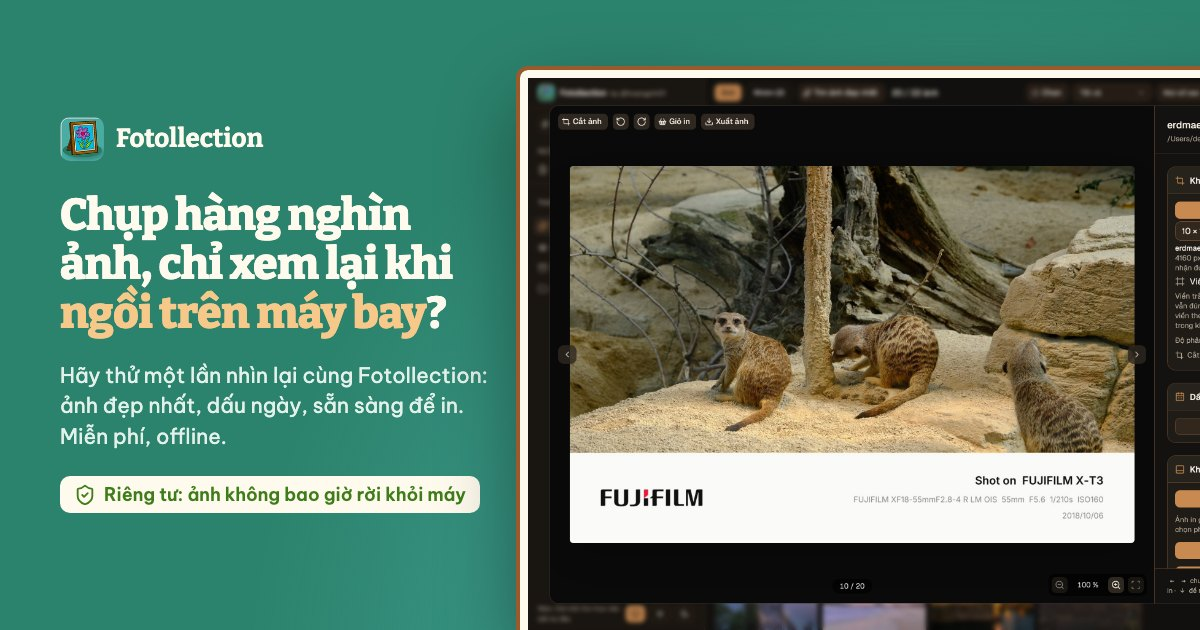
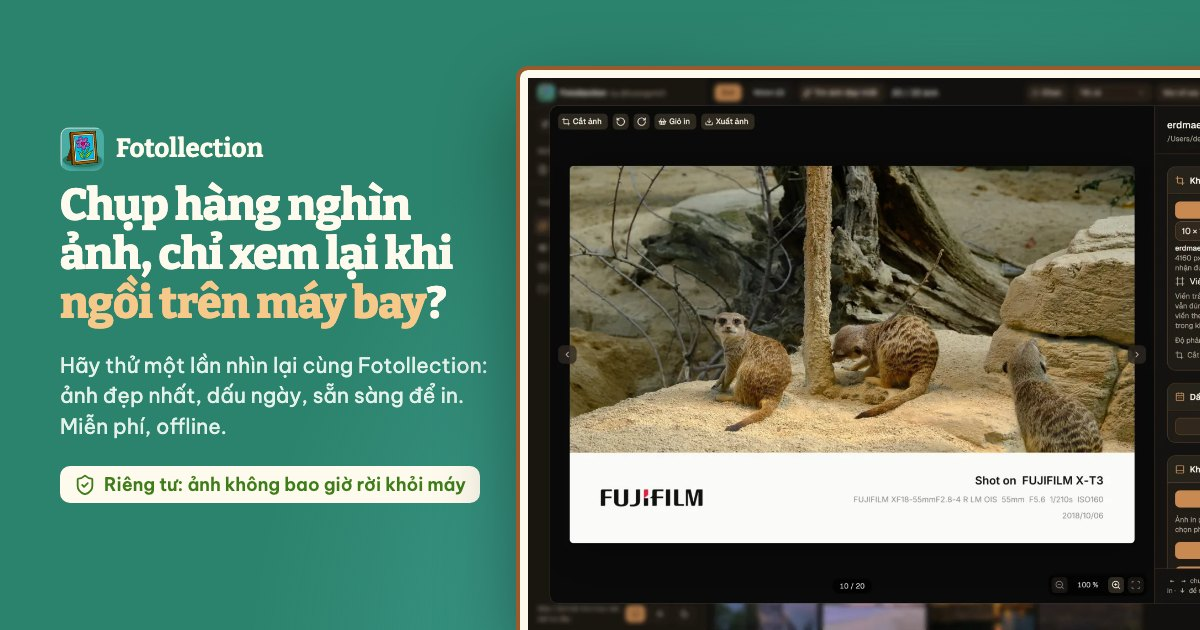
feat(site): every page has its own link preview, title, description and image, in both languages [NFR-007]
og.mjs renders the cards from og.html and the screenshots already on the
site, with no app recording; a page names its card with og: in its front
matter. shoot.mjs no longer renders them.

Changed region(s): [[0.0308, 0.181, 0.4008, 0.5429], [0.0308, 0.573, 0.4008, 0.8143]]

diff --git a/site/screenshots/og.html b/site/screenshots/og.html
@@ -1,6 +1,6 @@
 <!doctype html>
 <!-- SPDX-License-Identifier: GPL-3.0-only -->
-<!-- The link-preview card (Open Graph, 1200 × 630), rendered by shoot.mjs with the site's own fonts. -->
+<!-- The link-preview cards (Open Graph, 1200 × 630), one per page and language, rendered by og.mjs with the site's own fonts. -->
 <html>
   <head>
     <meta charset="utf-8" />
@@ -27,6 +27,8 @@
       .shield { display: inline-flex; align-items: center; gap: 8px; margin-top: 24px; padding: 7px 14px; border-radius: 10px; background: #fffaee; color: #3f7d1a; font-weight: 600; font-size: 18px; }
       .shield svg { width: 22px; height: 22px; }
       .shot { position: relative; height: 100%; }
+      .kicker { margin-top: 30px; font-weight: 600; font-size: 18px; letter-spacing: 0.08em; text-transform: uppercase; color: #f6c98b; }
+      .kicker + h1 { margin-top: 10px; }
       .shot img {
         position: absolute; left: 20px; top: 70px; width: 900px;
         border-radius: 8px; border: 8px solid #fffaee; outline: 4px solid #9a5a2c; box-shadow: 0 30px 80px rgba(0, 0, 0, 0.4);
@@ -36,6 +38,7 @@
   <body>
     <div class="text">
       <div class="brand"><img src="/mark.png" alt="" />Fotollection</div>
+      <p class="kicker" id="kicker" hidden></p>
       <h1 id="title"></h1>
       <p id="sub"></p>
       <div class="shield">
@@ -45,18 +48,51 @@
     </div>
     <div class="shot"><img id="shot" alt="" /></div>
     <script>
-      const lang = new URLSearchParams(location.search).get('lang') === 'vi' ? 'vi' : 'en'
-      const text = {
-        en: [['Thousands of photos, only looked at ', 'on the plane', ' home?'], 'Take one real look back with Fotollection: best shots, date stamp, ready to print. Free and offline.', 'Private: your photos never leave your computer'],
-        vi: [['Chụp hàng nghìn ảnh, chỉ xem lại khi ', 'ngồi trên máy bay', '?'], 'Hãy thử một lần nhìn lại cùng Fotollection: ảnh đẹp nhất, dấu ngày, sẵn sàng để in. Miễn phí, offline.', 'Riêng tư: ảnh không bao giờ rời khỏi máy'],
-      }[lang]
-      const [before, accent, after] = text[0]
+      // ?lang=en|vi&page=home|download|performance|manual|code-signing. Each card: a kicker
+      // (none on the home page), the headline with its accent, a line, the shield and a
+      // screenshot from site/assets/img.
+      const params = new URLSearchParams(location.search)
+      const lang = params.get('lang') === 'vi' ? 'vi' : 'en'
+      const cards = {
+        home: {
+          shot: `frame-${lang}-dark.webp`,
+          en: ['', ['Thousands of photos, only looked at ', 'on the plane', ' home?'], 'Take one real look back with Fotollection: best shots, date stamp, ready to print. Free and offline.', 'Private: your photos never leave your computer'],
+          vi: ['', ['Chụp hàng nghìn ảnh, chỉ xem lại khi ', 'ngồi trên máy bay', '?'], 'Hãy thử một lần nhìn lại cùng Fotollection: ảnh đẹp nhất, dấu ngày, sẵn sàng để in. Miễn phí, offline.', 'Riêng tư: ảnh không bao giờ rời khỏi máy'],
+        },
+        download: {
+          shot: `grid-${lang}-dark.webp`,
+          en: ['Download', ['Install ', 'in a minute', ''], 'macOS, Windows and Linux. On Ubuntu, Debian and Mint, one command sets it up.', 'Free and open source (GPL-3.0)'],
+          vi: ['Tải về', ['Cài đặt ', 'trong một phút', ''], 'macOS, Windows và Linux. Trên Ubuntu, Debian và Mint, một lệnh là xong.', 'Miễn phí, mã nguồn mở (GPL-3.0)'],
+        },
+        performance: {
+          shot: `charts/bench-budgets-${lang}.svg`,
+          en: ['Performance', ['Measured, ', 'not promised', ''], 'Speed, memory and print quality, measured on an ordinary laptop. Anyone can run the benchmarks again.', 'The benchmarks live in the source code'],
+          vi: ['Hiệu năng', ['Đo thật, ', 'không hứa suông', ''], 'Tốc độ, RAM và chất lượng in, đo trên một laptop bình thường. Ai cũng chạy lại được.', 'Chương trình đo nằm ngay trong mã nguồn'],
+        },
+        manual: {
+          shot: `stamp-${lang}-dark.webp`,
+          en: ['Manual', ['Step by step, ', 'with screenshots', ''], 'From choosing the photos to the print, in English and Vietnamese.', 'Private: your photos never leave your computer'],
+          vi: ['Hướng dẫn', ['Từng bước, ', 'có ảnh minh hoạ', ''], 'Từ chọn ảnh đến bản in, bằng tiếng Việt và tiếng Anh.', 'Riêng tư: ảnh không bao giờ rời khỏi máy'],
+        },
+        'code-signing': {
+          shot: `select-${lang}-dark.webp`,
+          en: ['Trust', ['How the installers ', 'are made', ''], 'Built from the public source code on GitHub Actions, with a SHA-256 checksum for every file.', 'No telemetry, no account'],
+          vi: ['Tin cậy', ['Bộ cài ', 'được làm ra thế nào', ''], 'Build từ mã nguồn công khai trên GitHub Actions, mỗi tệp kèm mã SHA-256.', 'Không theo dõi, không cần tài khoản'],
+        },
+      }
+      const card = cards[params.get('page')] ?? cards.home
+      const [kicker, [before, accent, after], sub, shield] = card[lang]
+      if (kicker) {
+        const k = document.getElementById('kicker')
+        k.textContent = kicker
+        k.hidden = false
+      }
       const em = document.createElement('em')
       em.textContent = accent
       document.getElementById('title').append(before, em, after)
-      document.getElementById('sub').textContent = text[1]
-      document.getElementById('shield').textContent = text[2]
-      document.getElementById('shot').src = `/frame-${lang}-dark.png`
+      document.getElementById('sub').textContent = sub
+      document.getElementById('shield').textContent = shield
+      document.getElementById('shot').src = `/img/${card.shot}`
     </script>
   </body>
 </html>

diff --git a/site/_layouts/default.html b/site/_layouts/default.html
@@ -14,7 +14,9 @@
 {%- if page.title_key %}{% assign page_title = t[page.title_key] | append: ' · Fotollection' %}{% else %}{% assign page_title = t.title %}{% endif -%}
 {%- if page.description_key %}{% assign page_description = t[page.description_key] %}{% else %}{% assign page_description = t.description %}{% endif -%}
 {%- assign canonical = page.url | absolute_url -%}
-{%- capture og_image %}{{ '/assets/img/og-' | append: page.lang | append: '.jpg' | absolute_url }}{% endcapture -%}
+{%- comment -%} Each page's own link preview (site/screenshots/og.mjs): og-{page}-{lang}.jpg, the home page's og-{lang}.jpg. {%- endcomment -%}
+{%- if page.og %}{% assign og_name = 'og-' | append: page.og | append: '-' | append: page.lang %}{% else %}{% assign og_name = 'og-' | append: page.lang %}{% endif -%}
+{%- capture og_image %}{{ '/assets/img/' | append: og_name | append: '.jpg' | absolute_url }}{% endcapture -%}
 <!doctype html>
 <html lang="{{ t.html_lang }}">
   <head>
@@ -45,12 +47,12 @@
     <meta property="og:image:type" content="image/jpeg" />
     <meta property="og:image:width" content="1200" />
     <meta property="og:image:height" content="630" />
-    <meta property="og:image:alt" content="{{ t.title }}" />
+    <meta property="og:image:alt" content="{{ page_title }}" />
     <meta name="twitter:card" content="summary_large_image" />
     <meta name="twitter:title" content="{{ page_title }}" />
     <meta name="twitter:description" content="{{ page_description }}" />
     <meta name="twitter:image" content="{{ og_image }}" />
-    <meta name="twitter:image:alt" content="{{ t.title }}" />
+    <meta name="twitter:image:alt" content="{{ page_title }}" />
     <script type="application/ld+json">
       {
         "@context": "https://schema.org",

diff --git a/site/code-signing.html b/site/code-signing.html
@@ -6,6 +6,7 @@ path_en: /code-signing/
 path_vi: /vi/code-signing/
 title_key: cs_title
 description_key: cs_description
+og: code-signing
 ---
 
 {% include code-signing.html %}

diff --git a/site/performance.html b/site/performance.html
@@ -6,6 +6,7 @@ path_en: /performance/
 path_vi: /vi/performance/
 title_key: perf_title
 description_key: perf_description
+og: performance
 ---
 
 {% include performance.html %}

diff --git a/site/vi/code-signing.html b/site/vi/code-signing.html
@@ -6,6 +6,7 @@ path_en: /code-signing/
 path_vi: /vi/code-signing/
 title_key: cs_title
 description_key: cs_description
+og: code-signing
 ---
 
 {% include code-signing.html %}

diff --git a/site/vi/performance.html b/site/vi/performance.html
@@ -6,6 +6,7 @@ path_en: /performance/
 path_vi: /vi/performance/
 title_key: perf_title
 description_key: perf_description
+og: performance
 ---
 
 {% include performance.html %}

diff --git a/site/download.html b/site/download.html
@@ -6,6 +6,7 @@ path_en: /download/
 path_vi: /vi/download/
 title_key: dl_title
 description_key: dl_description
+og: download
 ---
 
 {% include download.html %}

diff --git a/site/vi/download.html b/site/vi/download.html
@@ -6,6 +6,7 @@ path_en: /download/
 path_vi: /vi/download/
 title_key: dl_title
 description_key: dl_description
+og: download
 ---
 
 {% include download.html %}

diff --git a/site/manual.html b/site/manual.html
@@ -6,6 +6,7 @@ path_en: /manual/
 path_vi: /vi/manual/
 title_key: man_title
 description_key: man_description
+og: manual
 ---
 
 {% include manual.html %}

diff --git a/site/vi/manual.html b/site/vi/manual.html
@@ -6,6 +6,7 @@ path_en: /manual/
 path_vi: /vi/manual/
 title_key: man_title
 description_key: man_description
+og: manual
 ---
 
 {% include manual.html %}

diff --git a/docs/DOCS_GUIDE.md b/docs/DOCS_GUIDE.md
@@ -31,7 +31,7 @@
 | **A significant decision** | A new ADR from [the template](adr/0000-template.md), a row in [adr/README.md](adr/README.md) | The status line of any ADR it supersedes |
 | **Dependencies or bundled assets** (crates, npm packages, Python packages through uv in `pyproject.toml` / `uv.lock`, fonts, logos, models, map data) | Permissive licences only (`cargo deny`, [ADR-0008](adr/0008-license-gpl3-with-relicensing-option.md)); the asset's licence file and checksum note (`crates/core/assets/**/*.md`, `site/assets/fonts/OFL.txt`) | README "Third-party notices" (both languages) |
 | **README.md** | [README.vi.md](../README.vi.md) in the same commit: same sections, same charts | `scripts/check-docs.sh` compares them |
-| **The website** (`site/`) | Both languages in `site/_data/i18n.yml`; [site/README.md](../site/README.md) if its structure changes. A feature not released yet is marked as coming ("Coming in vX"), on the site, in the READMEs and in the guide's chapter | **Screenshots** with `site/screenshots/build.sh` when the app's look changes; the **link-preview card** (`site/screenshots/og.html`) when the opening line changes; the landing page sections when a feature worth showing ships |
+| **The website** (`site/`) | Both languages in `site/_data/i18n.yml`; [site/README.md](../site/README.md) if its structure changes. A new page gets its own link preview: a card in `site/screenshots/og.html`, its name in `og.mjs` and `og:` in the page's front matter, then `node site/screenshots/og.mjs`. A feature not released yet is marked as coming ("Coming in vX"), on the site, in the READMEs and in the guide's chapter | **Screenshots** with `site/screenshots/build.sh` when the app's look changes; the **link-preview card** (`site/screenshots/og.html`) when the opening line changes; the landing page sections when a feature worth showing ships |
 | **A bug that took more than one look to find** | An entry at the top of [LESSONS.md](LESSONS.md): what was seen, why, the fix, the rule from now on | Remove every temporary `DEBUG-` log before the commit |
 | **A release** | `scripts/release.sh X.Y.Z` (version everywhere + CHANGELOG), then push ([RELEASE.md](RELEASE.md) §4, §6). Remove the "coming in vX" markers: `site/_data/i18n.yml`, README.md and README.vi.md, the USER_GUIDE chapters (both languages) | [STATUS.md](STATUS.md) "Shipping" line once it is published; the website updates its download buttons and changelog by itself |
 | **A new platform or package format** (an OS, an architecture, AppImage, `.deb`…) | An ADR; [PRD.md](PRD.md) NFR-007; [RELEASE.md](RELEASE.md) §2–§6 (artifacts, signing, pipeline, updating, checklist); `release.yml` and `ci.yml` matrices with a smoke test; `.github/release-notes.md`; README and README.vi (download, requirements, the table "By system"); the website (download buttons, the feature table by system, install steps, FAQ, footnotes, `operatingSystem` in `default.html`) | [ARCHITECTURE.md](ARCHITECTURE.md) §8; [TESTING.md](TESTING.md) §6–§7; [SECURITY.md](SECURITY.md) (installer row); USER_GUIDE (updating, Open with); `updates.rs` asset names; [STATUS.md](STATUS.md) and [ROADMAP.md](ROADMAP.md) |

diff --git a/site/README.md b/site/README.md
@@ -7,7 +7,7 @@ The project's website, <https://fotollection.org/>, in English (`/`) and Vietnam
 | `_config.yml` | Address (`url`, `baseurl`) and the `jekyll-github-metadata` plugin, which reads the latest release |
 | `_data/i18n.yml` | Every string, in `en` and `vi`, with the same keys |
 | `_data/platforms.yml` | The facts of the "By system" table on the Download page (`#systems`; Features on the home page links to it) (macOS, Windows, Linux): one row per feature, a mark per system (`ok`, `soon`, `none`) and the footnote number a cell carries; the words are the `pf_*` keys, so the two languages cannot drift ([ADR-0034](../docs/adr/0034-linux-lean.md)). The Linux card (`#install-linux`: the `install.sh` one-liner, the APT repository, the AppImage, the four files) and the distributions block (`#linux`, `distro_groups`) are on the Download page. New footnotes are appended to the `notes` list in `default.html`, never inserted, so the numbers stay put |
-| `_layouts/default.html` | Page shell: meta tags, Open Graph and Twitter cards, `hreflang`, navigation, footer (with the red *Report a problem* button to the issue forms, FR-069) |
+| `_layouts/default.html` | Page shell: meta tags, Open Graph and Twitter cards (each page's own preview image, `og-{page}-{lang}.jpg` named by `og:` in its front matter, made by `screenshots/og.mjs`), `hreflang`, navigation, footer (with the red *Report a problem* button to the issue forms, FR-069) |
 | `_includes/home.html` | The page itself, including the "Three modes" section (`modes_*`, `collage_*`, `simple_*` keys, the `collage` and `simple` screenshots, marked as coming until v0.9.0 ships); `shot.html` (a screenshot, dark or light), `star.html` (the GitHub star link), `icons/` (Lucide, ISC) |
 | `index.html`, `vi/index.html` | The two languages |
 | `download.html`, `vi/download.html`, `_includes/download.html` | The Download page (`/download/`, `/vi/download/`), where the nav's Download button and the footer lead: the install steps for each system (`#install`, Linux in `#install-linux` with a Copy button on each command box), the table by system (`#systems`, footnotes 14–19), What's new (`#changelog`, the CHANGELOG from its latest released version) and which Linux distributions run it (`#linux`). Laid out like the Performance page (`perf-head`, then sections). The home page keeps only its three download buttons; the Linux one leads here. `_includes/download-buttons.html` holds the three download buttons, under the title here and in the home page's hero. `_includes/release-assets.html` matches the latest release's files for both pages, on how their names end, falling back to the releases page. Strings: `dl_*`, `install_*`, `linux_*`, `distro_*`, `changelog_*` |
